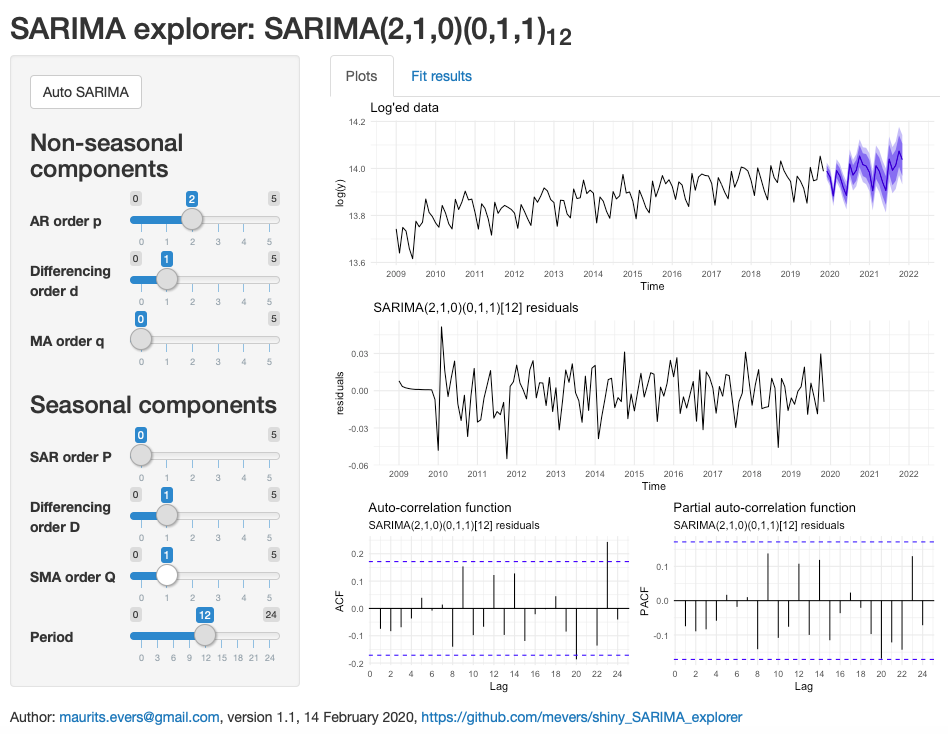
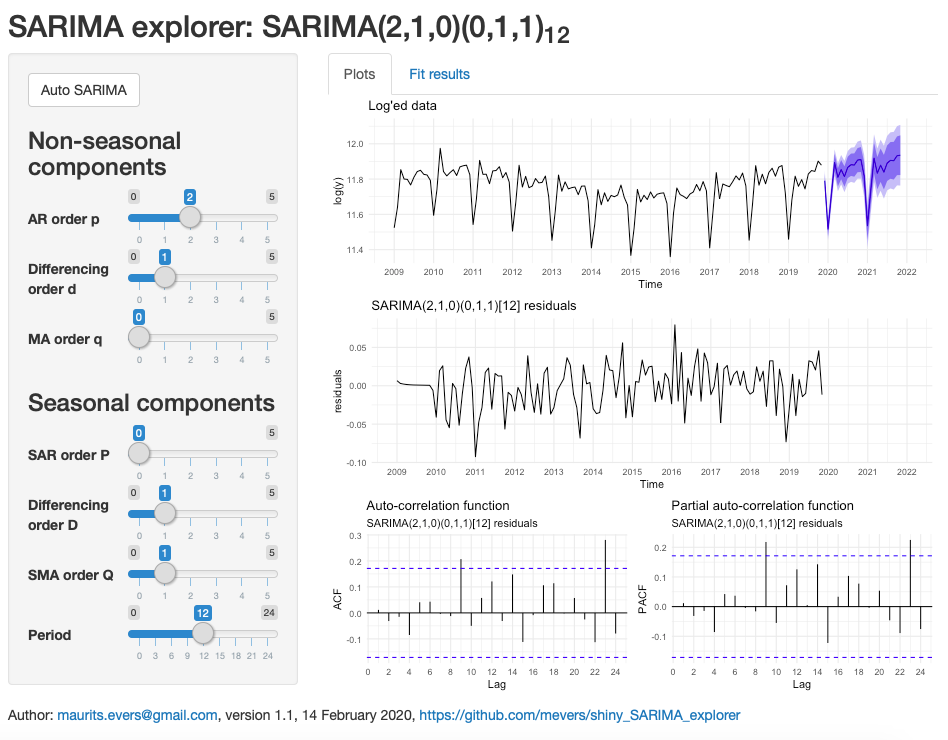
Updated README, screenshot; added 'not yet implemented' warning

diff --git a/README.md b/README.md
@@ -5,6 +5,11 @@
 ![](screenshot.png)
 
 
+## Data
+
+Data are monthly passenger airport traffic data for Canberra airport, freely available from the [Department of Infrastructure, Transport, Cities, and Regional Development](https://www.bitre.gov.au/publications/ongoing/airport_traffic_data).
+
+
 ## TODO
 
 - <s>Add fit summary</s>
